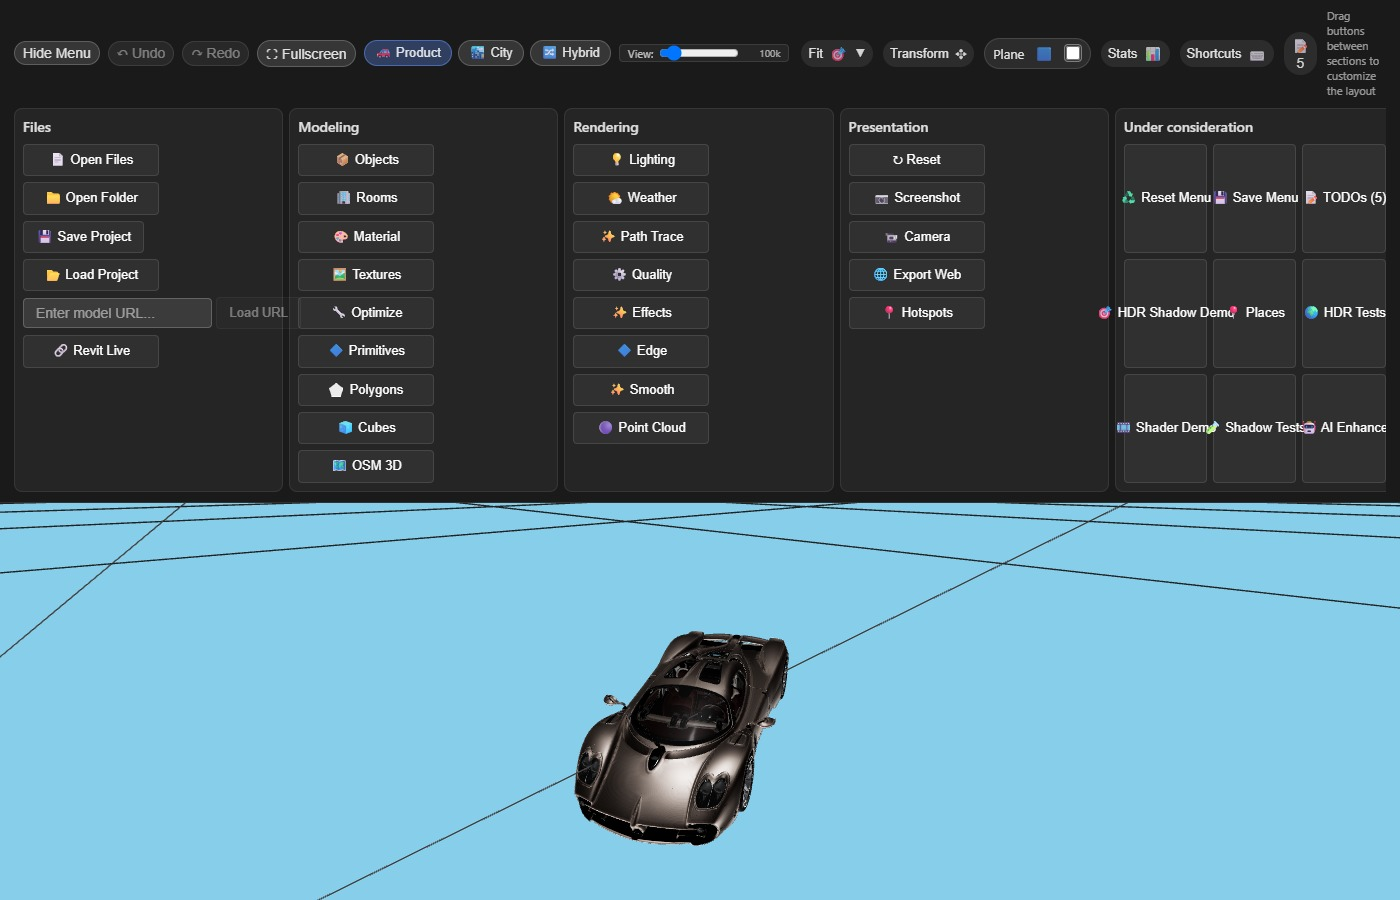
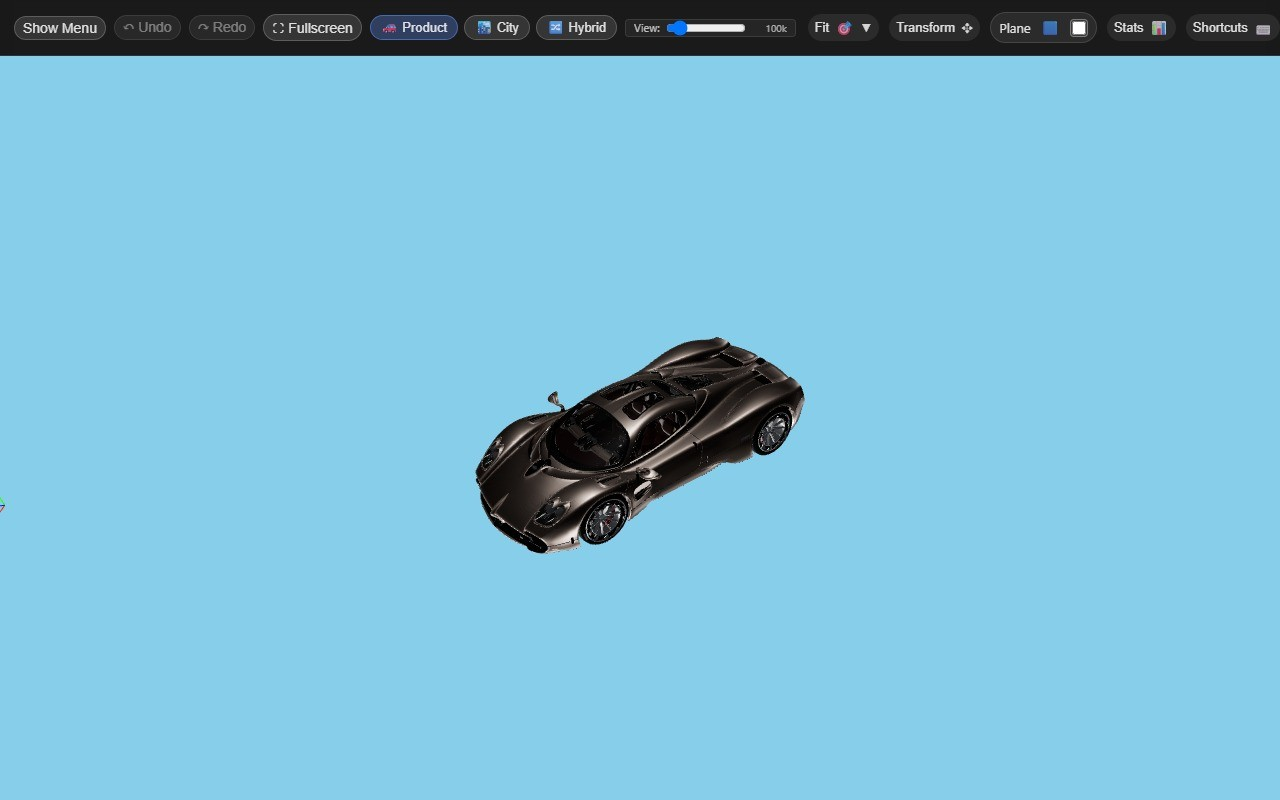
Fix 3D Viewer blog stills: sync WebGL camera aspect before capture.
Menu-open captures left the canvas short while the camera kept the window aspect, which pancaked product models. Recapture with menu hidden, matched buffer/CSS/camera aspect, and cache-bust ?v=20260719e.

diff --git a/src/blog/posts/demoPostBuilder.ts b/src/blog/posts/demoPostBuilder.ts
@@ -63,7 +63,7 @@ const SECTION_LABEL: Record<DemoSection, string> = {
  * Bump when recapturing blog stills. Vercel serves /assets/* with
  * max-age=1y immutable — same path keeps old bytes in the browser.
  */
-export const BLOG_ASSET_CACHE_V = '20260719d'
+export const BLOG_ASSET_CACHE_V = '20260719e'
 
 export function buildDemoBlogPost(spec: DemoPostSpec): BlogPost {
   const sectionLink = SECTION_ANCHOR[spec.section]